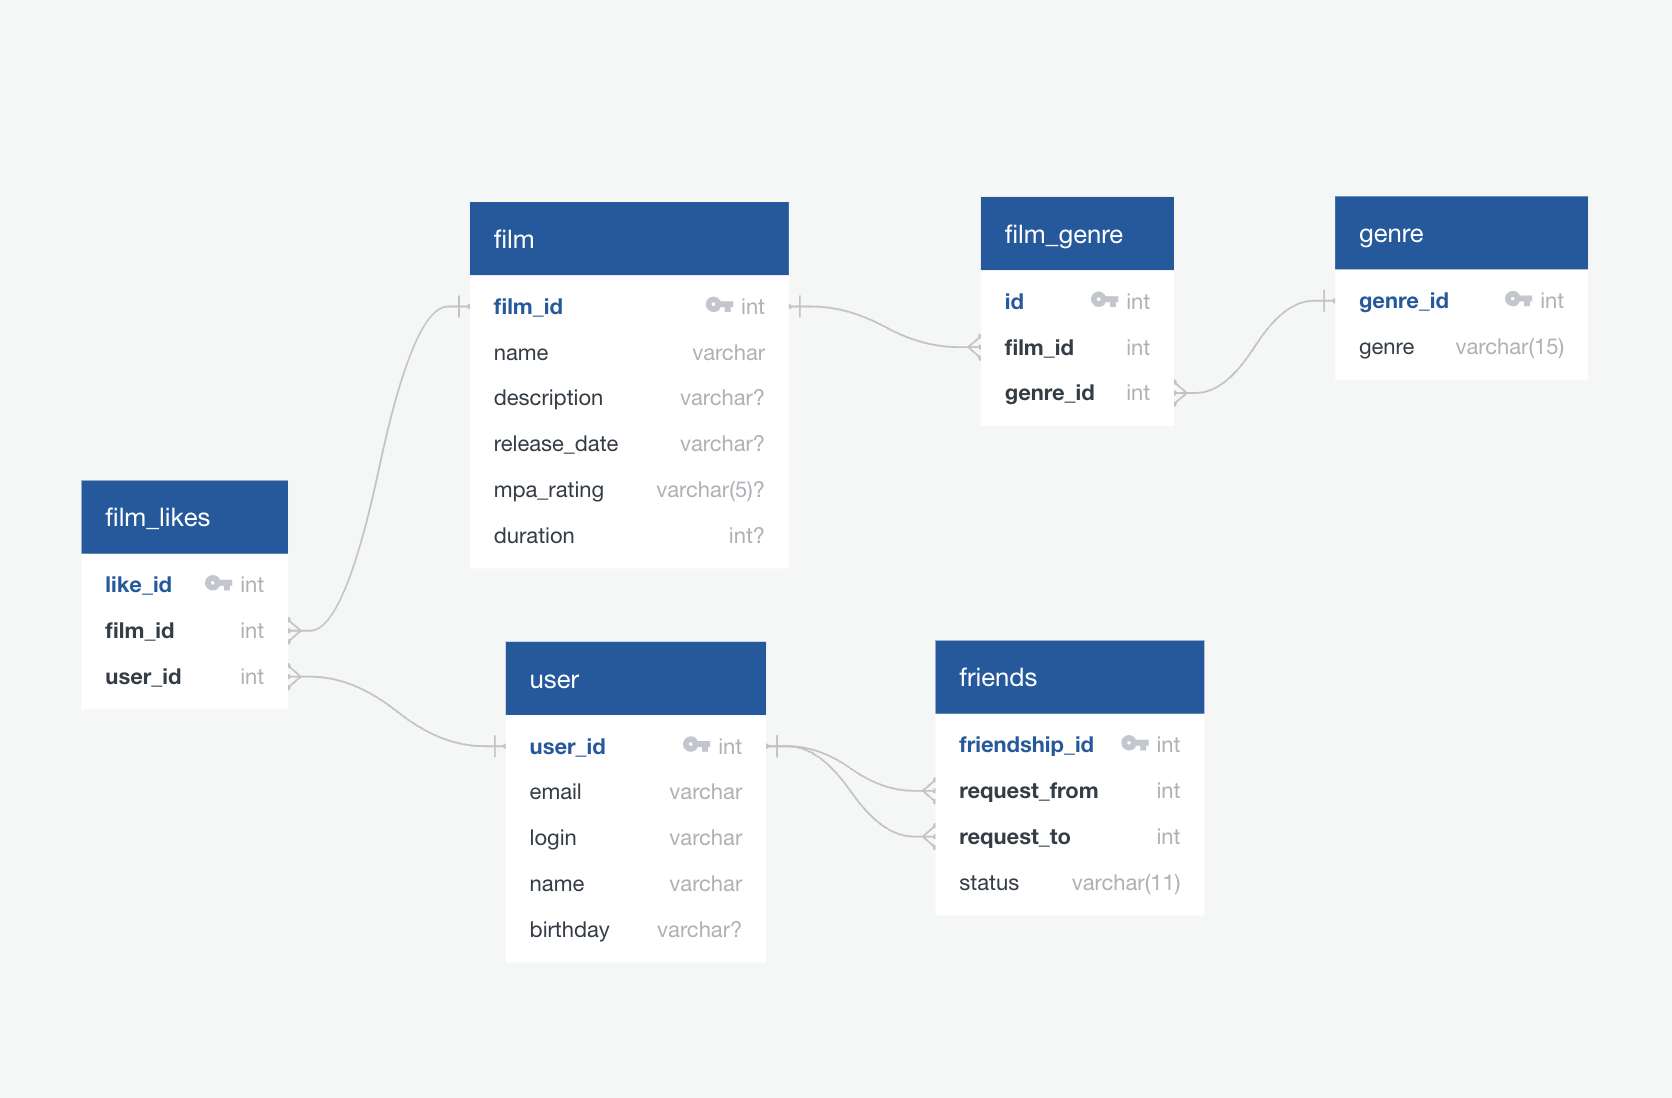
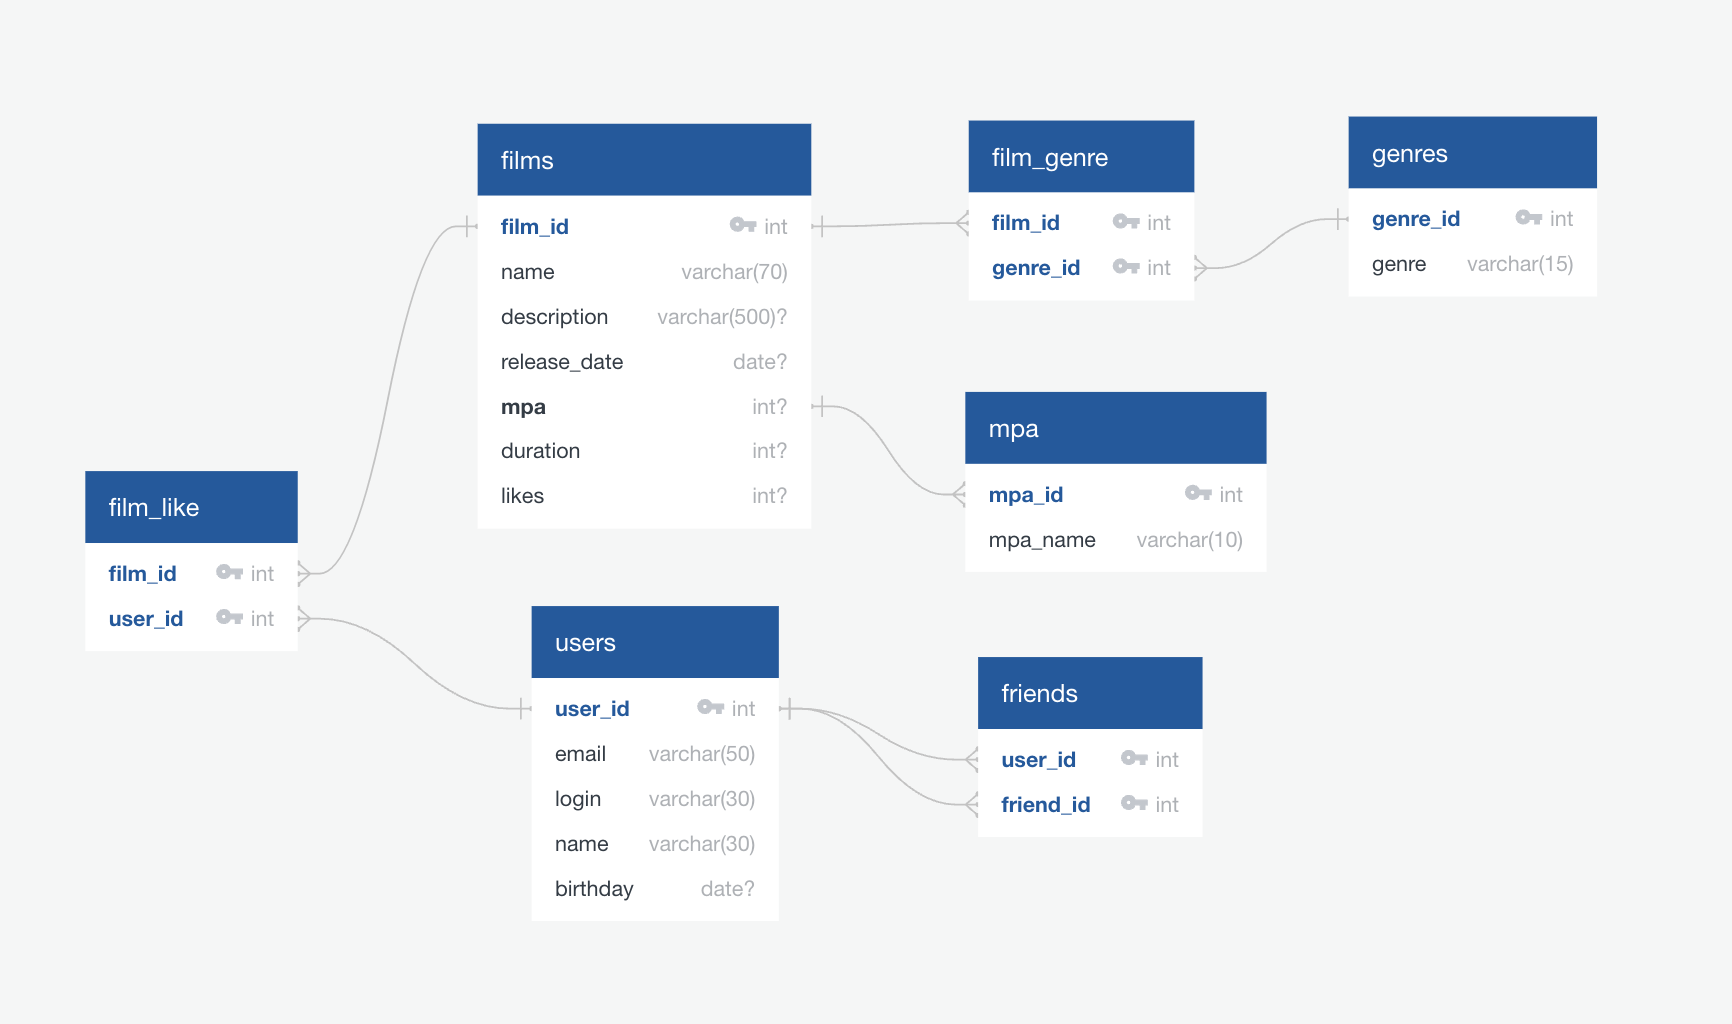
fetch updated files

diff --git a/README.md b/README.md
@@ -5,134 +5,10 @@
 Проект приложения **`Filmorate`** — базы данных фильмов. Пользователи могут отмечать свои любимые фильмы, находить любимые фильмы других пользователей и смотреть рейтинги популярных фильмов.
 
 ## Структура данных
-Приложение хранит данные о фильмах (`film`) и пользователях (`user`), а также взаимосвязи между ними: с кем пользователь дружит (`friends`) и какие фильмы ему нравятся (`film_likes`). Для фильмов предусмотрена возможность присваивать несколько жанров (`genre`).
+
+Приложение хранит данные о фильмах (`films`) и пользователях (`users`), а также взаимосвязи между ними: с кем пользователь дружит (`friends`) и какие фильмы ему нравятся (`film_like`). 
+
+Для фильмов предусмотрена возможность присваивать несколько жанров и рейтинг Американской киноассоциации (MPAA). Списки жанров и рейтингов хранятся в отдельных таблицах (`genres`) и (`mpa`).
 
 ![ER Diagram](/java-filmorate-erd.png)
 [ER-диаграмма базы данных приложения Filmorate](https://app.quickdatabasediagrams.com/#/d/KepfNg) 
-
-### Примеры SQL-запросов
-
-#### Получить все фильмы
-```sql
-SELECT * FROM film;
-```
-
-#### Получить всех пользователей
-```sql
-SELECT * FROM user;
-```
-
-#### Получить всех друзей пользователя
-
-```sql
--- получаем друзей пользователя 1
-SELECT request_from
-FROM friends
-WHERE request_to = 1
-AND status = 'confirmed'
-UNION
-SELECT request_to
-FROM friends
-WHERE request_from = 1
-AND status = 'confirmed';
-```
-
-#### Получить список общих друзей
-```sql
--- получаем общих друзей у пользователей 1 и 2
-SELECT *
-FROM (
-    SELECT request_from 
-    FROM friends
-    WHERE request_to = 1
-    AND status = 'confirmed'
-    UNION
-    SELECT request_to
-    FROM friends
-    WHERE request_from = 1
-    AND status = 'confirmed'
-) INNER JOIN (
-    SELECT request_from
-    FROM friends
-    WHERE request_to = 2
-    AND status = 'confirmed'
-    UNION
-    SELECT request_to
-    FROM friends
-    WHERE request_from = 2
-    AND status = 'confirmed'
-);
-```
-
-#### Получить любимые фильмы пользователя
-```sql
--- получаем любимые фильмы пользователя 1
-SELECT f.film_id,
-       f.name,
-       f.description,
-       f.release_date,
-       f.mpa_rating,
-       f.duration
-FROM film_likes AS fl
-WHERE user_id = 1
-INNER JOIN film AS f ON fl.film_id = f.film_id;
-```
-
-#### Получить общий список любимых фильмов с другим пользователем
-```sql
--- получаем любимые фильмы пользователей 1 и 2
-SELECT f.film_id, 
-       f.name,
-       f.description,
-       f.release_date,
-       f.mpa_rating,
-       f.duration
-FROM film AS f
-WHERE film_id IN (SELECT film_id
-                  FROM film_likes
-                  WHERE user_id = 1
-                  INNER JOIN
-                  SELECT film_id
-                  FROM film_likes
-                  WHERE user_id = 2);
-```
-
-#### Получить все фильмы одного жанра
-```sql
--- получаем все фильмы жанра 'Комедия'
-SELECT f.film_id, 
-       f.name,
-       f.description,
-       f.release_date,
-       f.mpa_rating,
-       f.duration
-FROM film AS f
-WHERE film_id IN (SELECT film_id
-                  FROM film_genre AS fg
-                  LEFT JOIN genre AS g ON fg.genre_id=g.genre_id
-                  HAVING g.genre = 'Комедия');
-```
-
-#### Получить количество лайков у одного фильма 
-```sql
--- считаем лайки у фильма 1
-SELECT COUNT(film_id),
-FROM film_likes
-WHERE film_id = 1;
-```
-
-#### Получить топ-10 самых популярных фильмов
-```sql
-SELECT f.film_id, 
-       f.name,
-       f.description,
-       f.release_date,
-       f.mpa_rating,
-       f.duration
-FROM film AS f
-WHERE film_id IN (SELECT film_id
-                  FROM film_likes
-                  GROUP BY film_id
-                  ORDER BY COUNT(film_id)
-                  LIMIT 10);
-```
